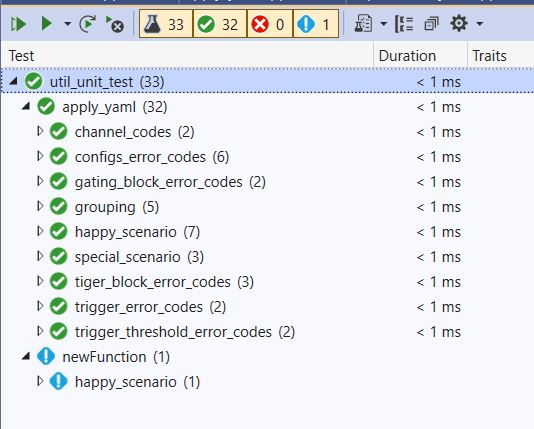
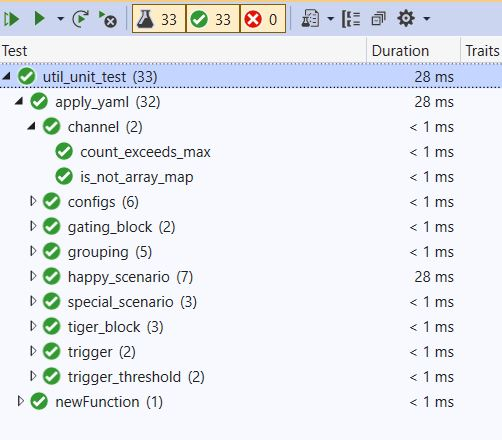
Test Cases Group (class) Naming

Changed region(s): [[0.0, 0.0, 1.0, 0.9394], [0.8068, 0.8485, 0.9263, 0.8788], [0.8665, 0.9091, 0.8964, 0.9394]]

diff --git a/util/util_unit_test/apply_yaml.cpp b/util/util_unit_test/apply_yaml.cpp
@@ -275,7 +275,7 @@ namespace apply_yaml
 		}
 	};
 
-	TEST_CLASS(configs_error_codes)
+	TEST_CLASS(configs)
 	{
 	public:
 		TEST_METHOD(config_manager_not_found)
@@ -355,7 +355,7 @@ namespace apply_yaml
 		}
 	};
 
-	TEST_CLASS(trigger_threshold_error_codes)
+	TEST_CLASS(trigger_threshold)
 	{
 	public:
 		TEST_METHOD(count_exceeds_max)
@@ -461,7 +461,7 @@ namespace apply_yaml
 		}
 	};
 
-	TEST_CLASS(tiger_block_error_codes)
+	TEST_CLASS(tiger_block)
 	{
 	public:
 		TEST_METHOD(invalid_mode)
@@ -520,7 +520,7 @@ namespace apply_yaml
 		}
 	};
 
-	TEST_CLASS(trigger_error_codes)
+	TEST_CLASS(trigger)
 	{
 	public:
 		TEST_METHOD(count_exceeds_max)
@@ -570,7 +570,7 @@ namespace apply_yaml
 				XHPTDC8_APPLY_YAML_INVALID_TRIGGER_STRUCT);
 		}
 	};
-	TEST_CLASS(gating_block_error_codes)
+	TEST_CLASS(gating_block)
 	{
 	public:
 		TEST_METHOD(count_exceeds_max)
@@ -611,7 +611,7 @@ namespace apply_yaml
 				XHPTDC8_APPLY_YAML_GTBLCK_INVALID_STRUCT);
 		}
 	};
-	TEST_CLASS(channel_codes)
+	TEST_CLASS(channel)
 	{
 	public:
 		TEST_METHOD(count_exceeds_max)
